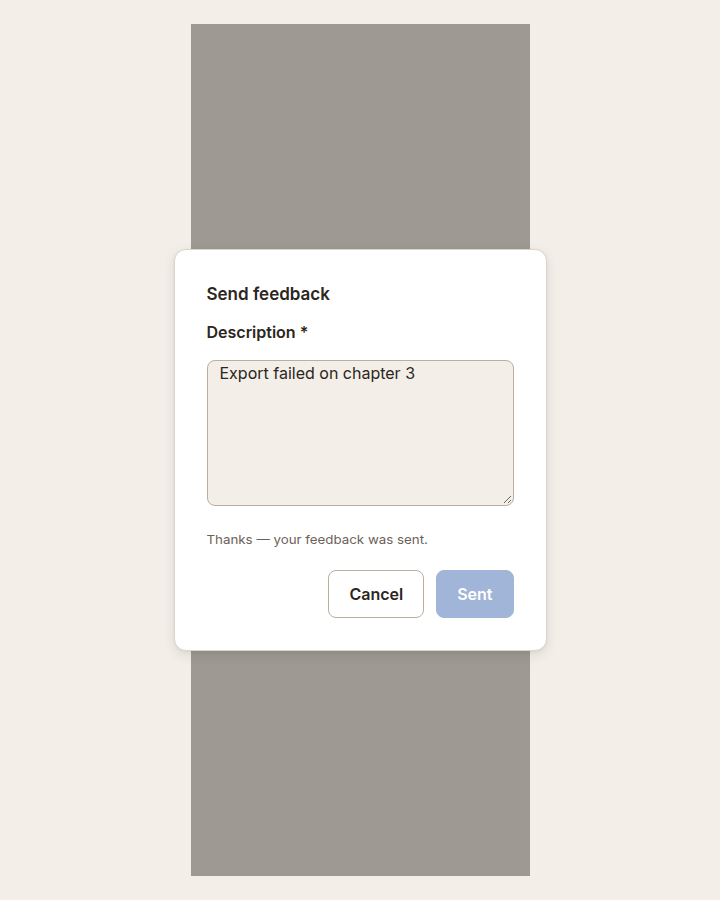
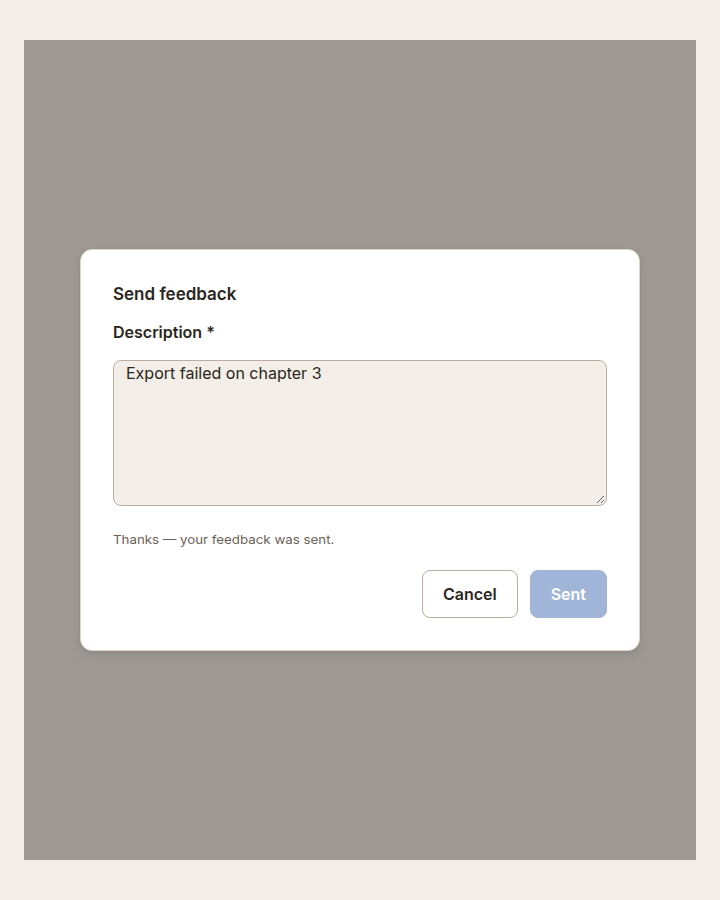
fix(#297): round 4 feedback card width and Type label
Border-box 480–560px on .st-dlg--feedback; legend styling; evidence scrim full width; recapture four dialogs at 560px.

diff --git a/apps/desktop/src/styles/app.css b/apps/desktop/src/styles/app.css
@@ -27,10 +27,6 @@
   .app-overlay-layer .st-dlg-scrim {
     z-index: var(--ct-z-modal);
   }
-  /* Teleported feedback / settings dialogs (#208): scoped settings.css does not reach overlay layer. */
-  .st-dlg--feedback {
-    max-width: 560px;
-  }
   .st-fieldset {
     margin: var(--ct-space-3) 0 0;
     padding: 0;
@@ -133,6 +129,23 @@
 .st-row.st-row--stack .st-inp {
   box-sizing: border-box;
   width: 100%;
+}
+
+/* Send feedback card (#208): beat settings.css .st-dlg when modal imports load later. */
+.st-dlg.st-dlg--feedback,
+.st-dlg--feedback {
+  box-sizing: border-box;
+  width: min(560px, 100%);
+  min-width: min(100%, 480px);
+  max-width: 560px;
+}
+fieldset.st-fieldset legend.st-row__k {
+  width: auto;
+  padding: 0;
+  margin: 0 0 var(--ct-space-1);
+  color: var(--ct-text);
+  font-weight: var(--ct-weight-semibold);
+  text-align: left;
 }
 
 @custom-variant dark (&:where([data-theme=dark], [data-theme=dark] *));

diff --git a/apps/desktop/src/settings/settings.css b/apps/desktop/src/settings/settings.css
@@ -197,6 +197,7 @@
   padding: var(--ct-space-6);
   background: var(--ct-scrim);
 }
+/* Pairing / backups / notes modals. Send feedback width: app.css .st-dlg--feedback. */
 .st-dlg {
   width: min(560px, 100%);
   min-width: min(100%, 480px);

diff --git a/pr-evidence/297/evidence.html b/pr-evidence/297/evidence.html
@@ -33,6 +33,8 @@
       .st-dlg-scrim {
         position: static;
         inset: auto;
+        width: 100%;
+        box-sizing: border-box;
         display: grid;
         place-items: center;
         min-height: 820px;

diff --git a/pr-evidence/297/evidence-shared.css b/pr-evidence/297/evidence-shared.css
@@ -12,6 +12,8 @@ body {
 }
 .st-dlg-scrim {
   position: static;
+  width: 100%;
+  box-sizing: border-box;
   display: grid;
   place-items: center;
   min-height: 820px;

diff --git a/pr-evidence/297/measure-card-width.py b/pr-evidence/297/measure-card-width.py
@@ -1,0 +1,9 @@
+#!/usr/bin/env python3
+"""Run measure-dom-width.mjs (Chrome CDP border-box width for .st-dlg--feedback)."""
+import subprocess
+import sys
+from pathlib import Path
+
+ROOT = Path(__file__).resolve().parent
+proc = subprocess.run(["node", str(ROOT / "measure-dom-width.mjs")], check=False)
+sys.exit(proc.returncode)

diff --git a/pr-evidence/297/README.md b/pr-evidence/297/README.md
@@ -6,3 +6,5 @@ Static HTML reproduces shipped dialog CSS (`tokens.css`, `app.css`, `settings.cs
 - **Combined viewer**: `evidence.html?scene=` (manual browser only; headless uses per-scene files)
 
 Capture: `./capture.sh` (Chromium, 720×900 viewport). Verify six distinct MD5s.
+
+Card width (480–560px): `node measure-dom-width.mjs` (CDP `getBoundingClientRect` on `.st-dlg--feedback`).
